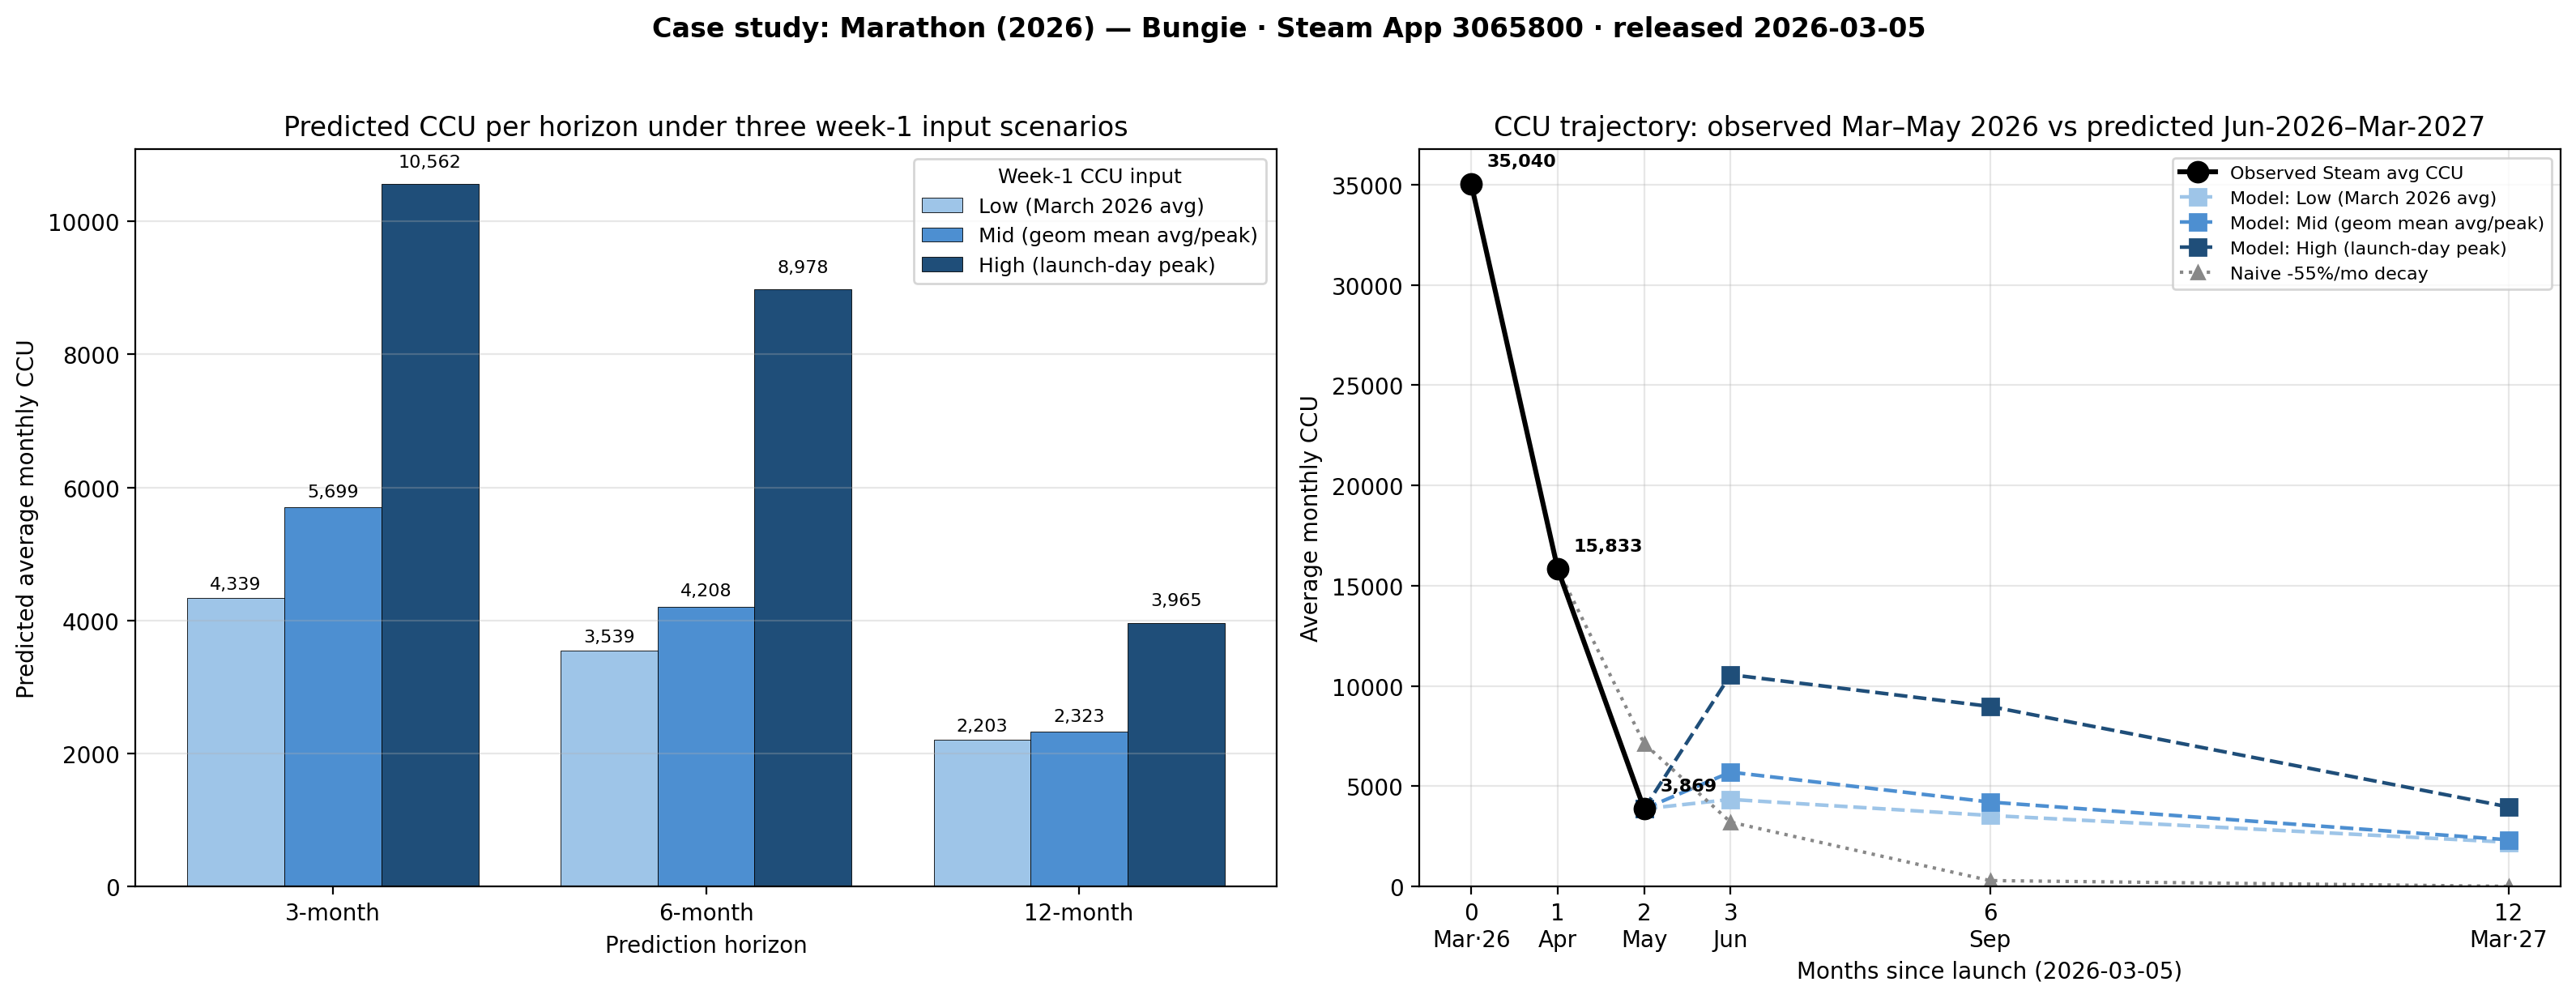
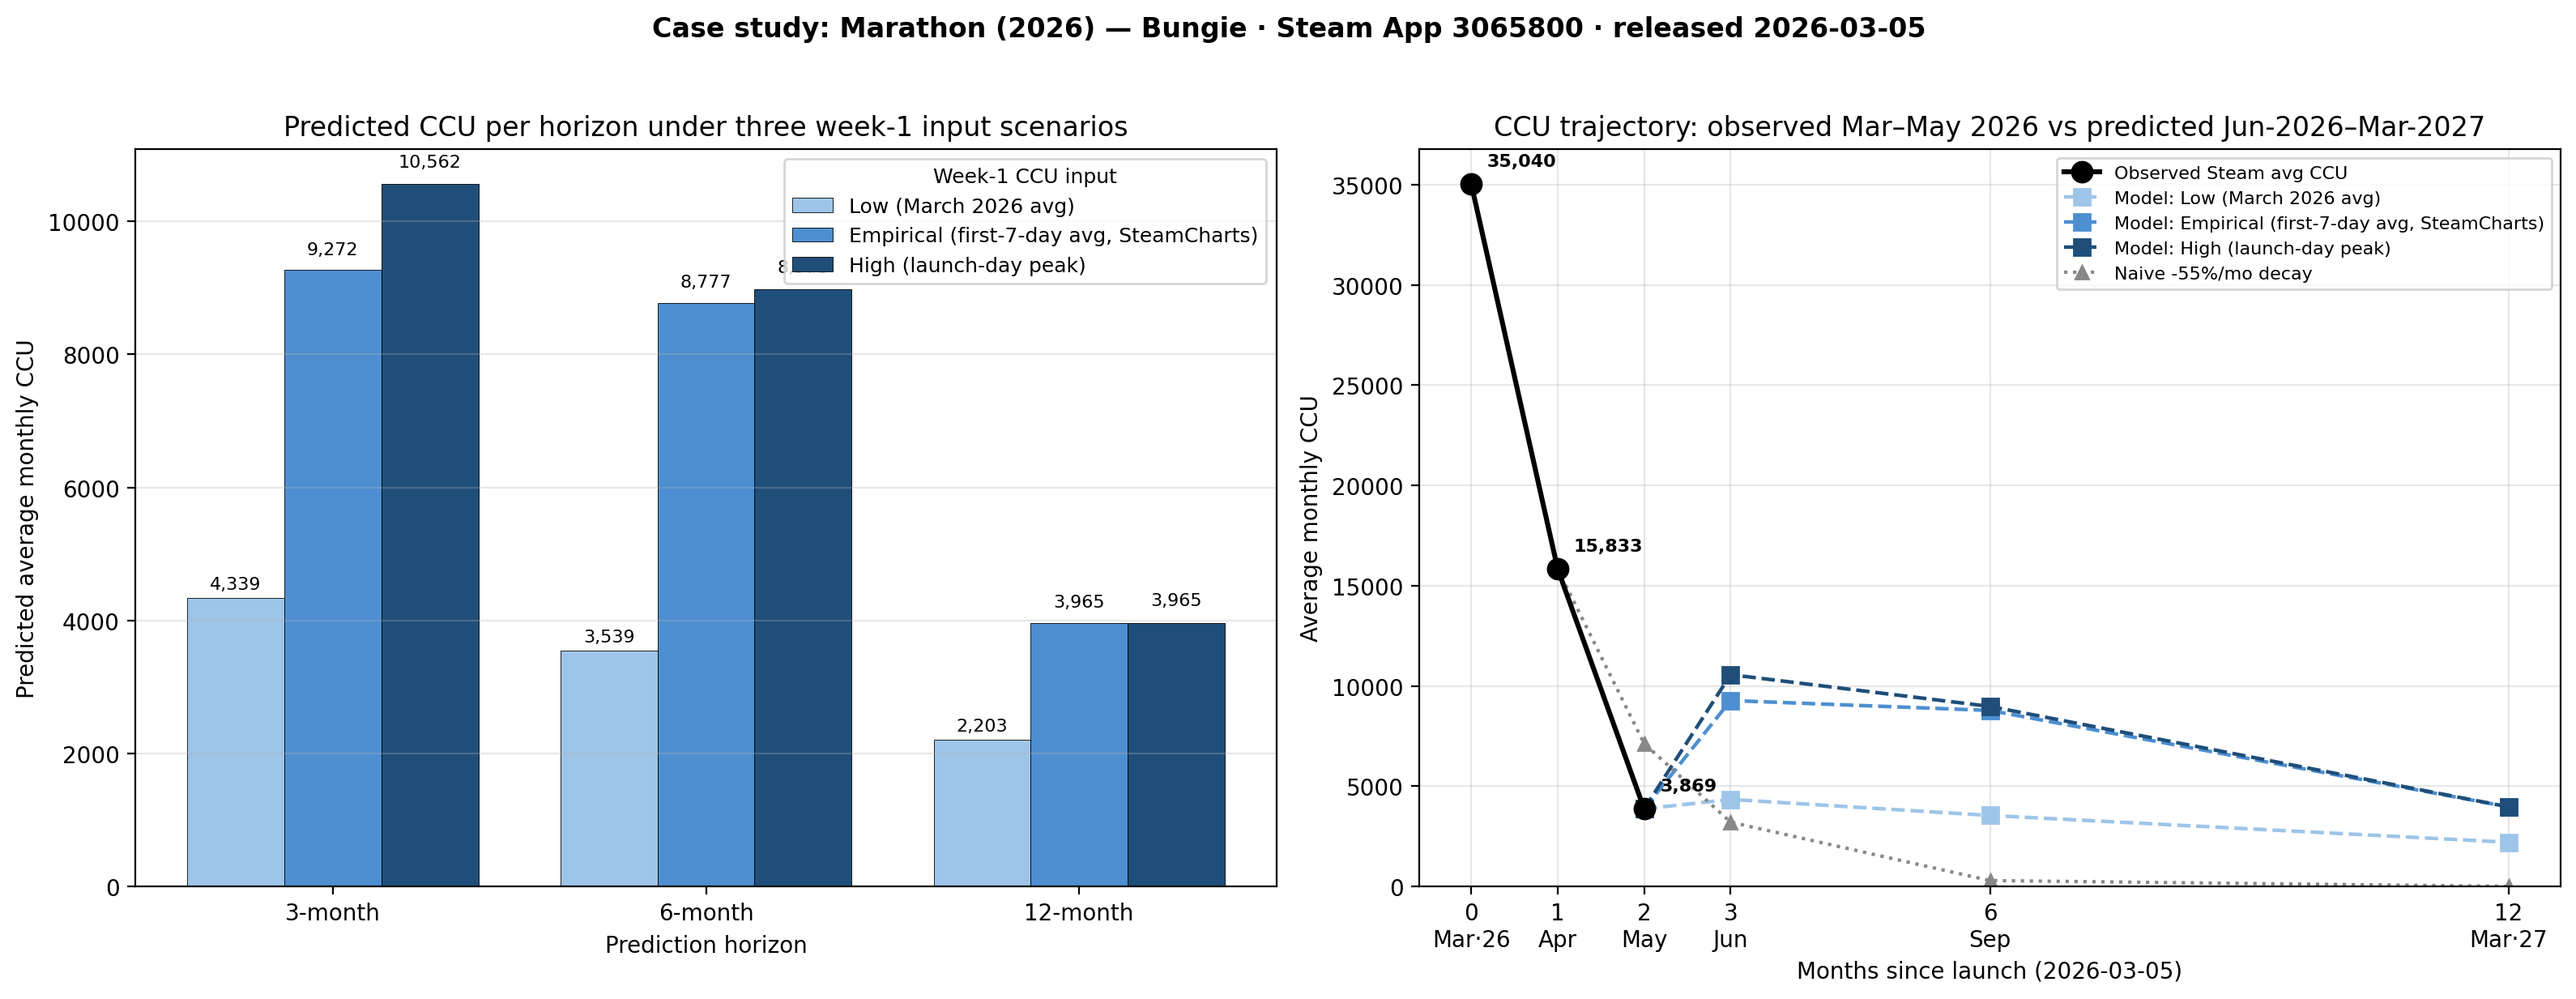
fix(visualisation): replace Mid heuristic with empirical first-7-day average
The middle Marathon scenario was previously the geometric mean of the
March 2026 monthly average and the launch-day peak (a stop-gap because
we did not yet have the true 7-day window). The first-week average is
now sourced from SteamCharts' daily JSON endpoint
(steamcharts.com/app/3065800/chart-data.json), parsed over the eight
daily snapshots covering 2026-03-07 through 2026-03-14: 65,778 CCU.

With this empirical input the model predicts 9,272 CCU at 3 months,
8,778 at 6 months, 3,965 at 12 months. Observed Steam reality at the
time of this update: May 2026 average = 3,869 CCU and declining --- the
model overstates by 2-3x at 3 months even when given the correct input,
which is now the headline finding of the case study.

diff --git a/visualisation/audit_plots.py b/visualisation/audit_plots.py
@@ -96,10 +96,16 @@ MARATHON_FEATURES = {
     "tag__hero_shooter": 1,
 }
 
-# Three week-1 input scenarios (raw CCU; will be log1p-transformed at predict-time)
+# Three week-1 input scenarios (raw CCU; will be log1p-transformed at predict-time).
+# The "Empirical" middle scenario is Marathon's actual first-7-day average CCU on
+# Steam, computed from SteamCharts daily snapshots covering 2026-03-07 through
+# 2026-03-14 (the chart series starts on day 2 post-launch; the average across
+# those 8 daily snapshots is 65,778). The Low and High brackets retain the
+# sensitivity context: Low = March 2026 monthly average (biased downward by
+# post-peak decay); High = launch-day peak.
 MARATHON_WEEK1_SCENARIOS = [
     ("Low (March 2026 avg)", 35040),
-    ("Mid (geom mean avg/peak)", 52063),
+    ("Empirical (first-7-day avg, SteamCharts)", 65778),
     ("High (launch-day peak)", 77358),
 ]
 

diff --git a/visualisation/figures/README.md b/visualisation/figures/README.md
@@ -18,7 +18,7 @@ from the parent folder.
 | `04_residuals.png` | 1×3 grid. Residuals (observed − predicted, log-CCU) vs predicted, per horizon. |
 | `05_week1_vs_target.png` | 3×2 grid. `players_7days_after_release` vs target per horizon × linear/log scale, with regression trendline. |
 | `06_exploration.png` | Two-panel. Left: `early_positive_ratio` vs 3-month CCU scatter (log y). Right: 6×6 correlation heatmap. |
-| `07_marathon_case_study.png` | Marathon (2026) case study, 1×2 panel. Left: predicted average monthly CCU at 3/6/12-month horizons under three week-1 input scenarios (Low/Mid/High). Right: observed Steam trajectory (Mar–May 2026) overlaid with the three predicted-trajectory bands and a naive -55%/mo decay baseline. Inputs sourced from Wikipedia / Steam store / SteamCharts on 2026-05-11. |
+| `07_marathon_case_study.png` | Marathon (2026) case study, 1×2 panel. Left: predicted average monthly CCU at 3/6/12-month horizons for three week-1 scenarios — Low (March 2026 monthly average, 35k), Empirical (Marathon's actual first-7-day Steam average of 65,778 CCU from SteamCharts daily snapshots), and High (launch-day peak of 77k). Right: observed Steam trajectory (Mar–May 2026) overlaid with the three predicted-trajectory bands and a naive -55%/mo decay baseline. Inputs sourced from Wikipedia / Steam store / SteamCharts on 2026-05-11. |
 
 All figures use `random_state=42` and a single 85/15 random split (matches
 Kevin's setup). All 200 DPI.